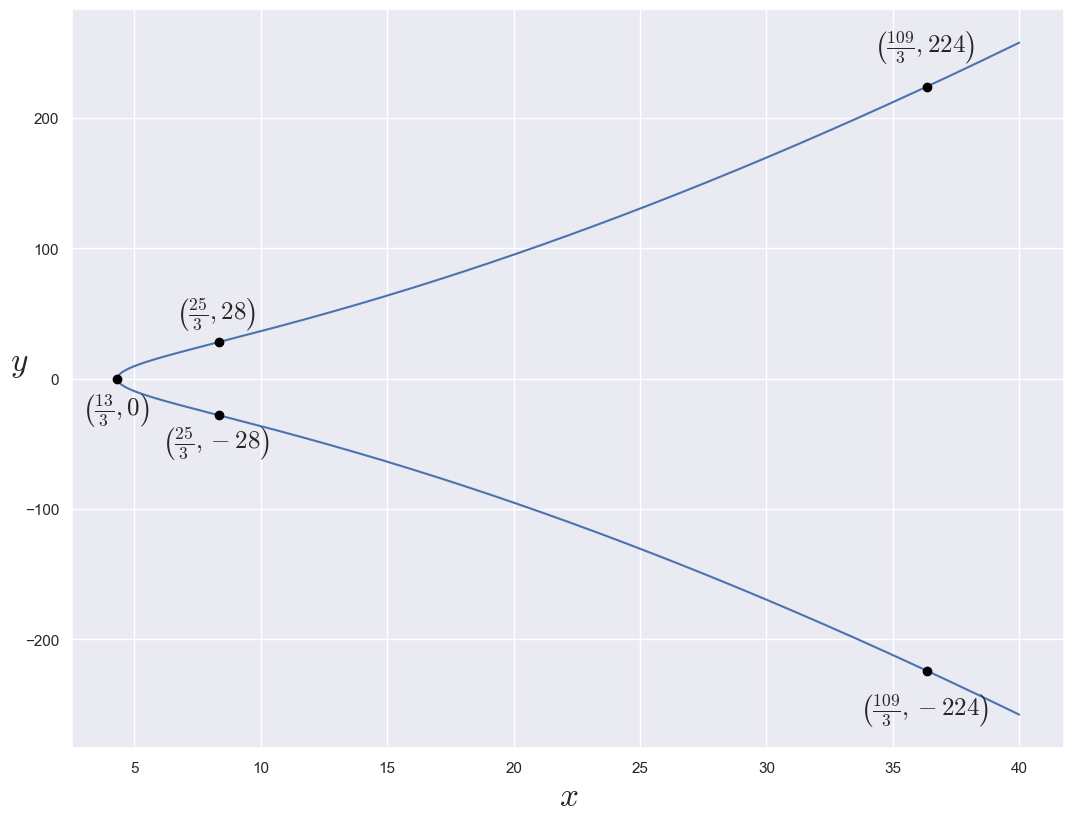
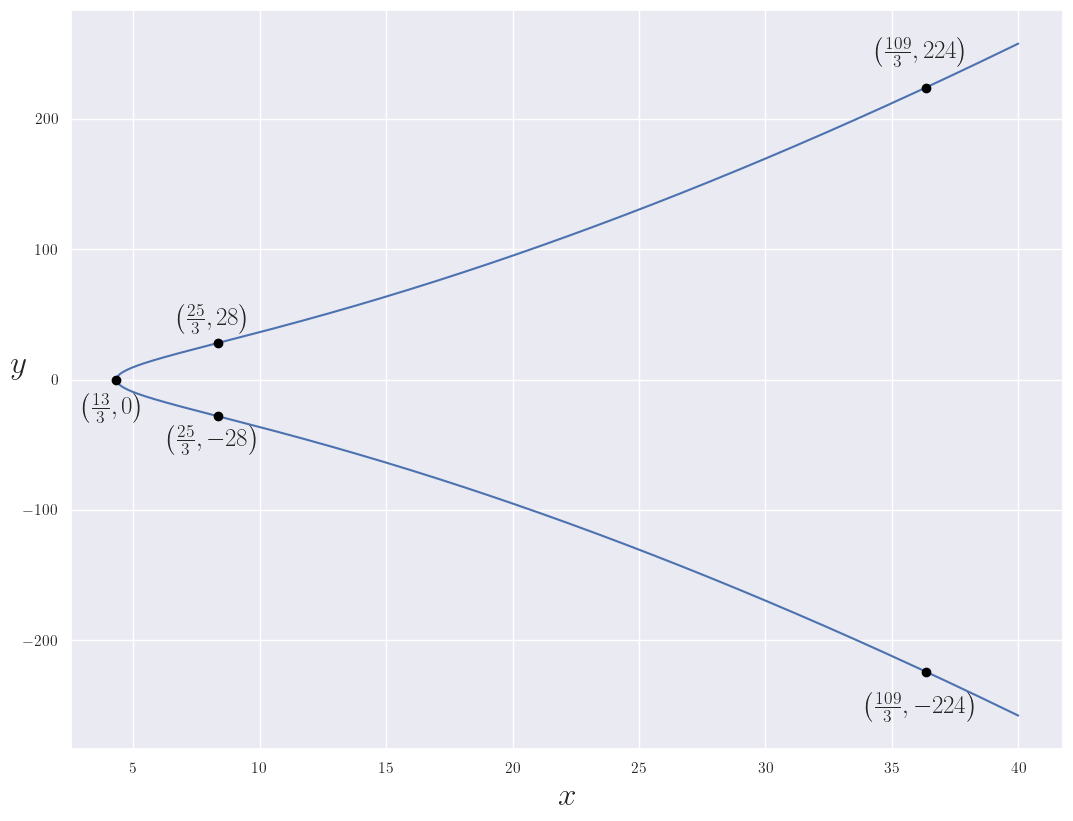
Some final copy-edits to latest "elementary-elliptic" post.

diff --git a/2021/10/elementary-elliptic.html b/2021/10/elementary-elliptic.html
@@ -169,6 +169,7 @@ def get_q_vals(p_vals):
 def main():
     # Python 3.9.1
     seaborn.set()
+    matplotlib.rcParams["text.usetex"] = "true"
     matplotlib.rcParams["mathtext.fontset"] = "cm"
     matplotlib.rcParams["mathtext.rm"] = "serif"
 
@@ -265,7 +266,7 @@ c-6,0,-10,-1,-12,-3s-194,-422,-194,-422s-65,47,-65,47z
 M834 80h400000v40h-400000z"></path></svg></span></span></span><span class=vlist-s></span></span><span class=vlist-r><span class=vlist style=height:0.13278em;><span></span></span></span></span></span></span></span></span><span class=vlist-s></span></span><span class=vlist-r><span class=vlist style=height:0.686em;><span></span></span></span></span></span><span class="mclose nulldelimiter"></span></span></span></span></span></span>
 </blockquote></div>
 
-<p>which can't happen if <span class=katex><span class=katex-mathml><math xmlns="http://www.w3.org/1998/Math/MathML"><semantics><mrow><mi>b</mi><mo separator=true>,</mo><mi>c</mi><mo>∈</mo><mi mathvariant=bold>R</mi></mrow><annotation encoding="application/x-tex">b, c \in \mathbf{R}</annotation></semantics></math></span><span class=katex-html aria-hidden=true><span class=base><span class=strut style=height:0.8888799999999999em;vertical-align:-0.19444em;></span><span class="mord mathnormal">b</span><span class=mpunct>,</span><span class=mspace style=margin-right:0.16666666666666666em;></span><span class="mord mathnormal">c</span><span class=mspace style=margin-right:0.2777777777777778em;></span><span class=mrel>∈</span><span class=mspace style=margin-right:0.2777777777777778em;></span></span><span class=base><span class=strut style=height:0.68611em;vertical-align:0em;></span><span class="mord mathbf">R</span></span></span></span>.
+<p>which can't happen since <span class=katex><span class=katex-mathml><math xmlns="http://www.w3.org/1998/Math/MathML"><semantics><mrow><mi>b</mi><mo separator=true>,</mo><mi>c</mi><mo>∈</mo><mi mathvariant=bold>R</mi></mrow><annotation encoding="application/x-tex">b, c \in \mathbf{R}</annotation></semantics></math></span><span class=katex-html aria-hidden=true><span class=base><span class=strut style=height:0.8888799999999999em;vertical-align:-0.19444em;></span><span class="mord mathnormal">b</span><span class=mpunct>,</span><span class=mspace style=margin-right:0.16666666666666666em;></span><span class="mord mathnormal">c</span><span class=mspace style=margin-right:0.2777777777777778em;></span><span class=mrel>∈</span><span class=mspace style=margin-right:0.2777777777777778em;></span></span><span class=base><span class=strut style=height:0.68611em;vertical-align:0em;></span><span class="mord mathbf">R</span></span></span></span>.
 Using this, we can finally show <span class=katex><span class=katex-mathml><math xmlns="http://www.w3.org/1998/Math/MathML"><semantics><mrow><mi>s</mi><mo mathvariant=normal>≠</mo><mn>0</mn></mrow><annotation encoding="application/x-tex">s \neq 0</annotation></semantics></math></span><span class=katex-html aria-hidden=true><span class=base><span class=strut style=height:0.8888799999999999em;vertical-align:-0.19444em;></span><span class="mord mathnormal">s</span><span class=mspace style=margin-right:0.2777777777777778em;></span><span class=mrel><span class=mrel><span class="mord vbox"><span class=thinbox><span class=rlap><span class=strut style=height:0.8888799999999999em;vertical-align:-0.19444em;></span><span class=inner><span class=mord><span class=mrel></span></span></span><span class=fix></span></span></span></span></span><span class=mrel>=</span></span><span class=mspace style=margin-right:0.2777777777777778em;></span></span><span class=base><span class=strut style=height:0.64444em;vertical-align:0em;></span><span class=mord>0</span></span></span></span>; again
 by way of contradiction, if <span class=katex><span class=katex-mathml><math xmlns="http://www.w3.org/1998/Math/MathML"><semantics><mrow><mi>s</mi><mo>=</mo><mn>0</mn></mrow><annotation encoding="application/x-tex">s = 0</annotation></semantics></math></span><span class=katex-html aria-hidden=true><span class=base><span class=strut style=height:0.43056em;vertical-align:0em;></span><span class="mord mathnormal">s</span><span class=mspace style=margin-right:0.2777777777777778em;></span><span class=mrel>=</span><span class=mspace style=margin-right:0.2777777777777778em;></span></span><span class=base><span class=strut style=height:0.64444em;vertical-align:0em;></span><span class=mord>0</span></span></span></span>:</p>
 <div class=katex-elt><blockquote>
@@ -279,7 +280,7 @@ two free parameters:</p>
 </blockquote></div>
 
 <h3 id=wild-elliptic-curve>A Wild Elliptic Curve Appears</h3>
-<p>Clearing dominators in our equation we can form an equation in
+<p>Clearing denominators in our equation we can form a quadratic in
 <span class=katex><span class=katex-mathml><math xmlns="http://www.w3.org/1998/Math/MathML"><semantics><mrow><mi>q</mi></mrow><annotation encoding="application/x-tex">q</annotation></semantics></math></span><span class=katex-html aria-hidden=true><span class=base><span class=strut style=height:0.625em;vertical-align:-0.19444em;></span><span class="mord mathnormal" style=margin-right:0.03588em;>q</span></span></span></span>:</p>
 <div class=katex-elt><blockquote>
 <span class=katex-display><span class=katex><span class=katex-mathml><math xmlns="http://www.w3.org/1998/Math/MathML" display=block><semantics><mrow><mo stretchy=false>(</mo><mn>3</mn><mo>−</mo><mn>4</mn><mi>p</mi><mo stretchy=false>)</mo><msup><mi>q</mi><mn>2</mn></msup><mo>−</mo><mo stretchy=false>(</mo><mn>1</mn><mo>−</mo><mi>p</mi><mo stretchy=false>)</mo><mo stretchy=false>(</mo><mn>3</mn><mo>−</mo><mn>4</mn><mi>p</mi><mo stretchy=false>)</mo><mi>q</mi><mo>+</mo><mrow><mo fence=true>(</mo><mn>3</mn><msup><mi>p</mi><mn>2</mn></msup><mo>−</mo><mn>3</mn><mi>p</mi><mo>+</mo><mn>1</mn><mo fence=true>)</mo></mrow><mo>=</mo><mn>0</mn></mrow><annotation encoding="application/x-tex">(3 - 4p) q^2 - (1 - p)(3 - 4p) q + \left(3 p^2 - 3p + 1\right) = 0</annotation></semantics></math></span><span class=katex-html aria-hidden=true><span class=base><span class=strut style=height:1em;vertical-align:-0.25em;></span><span class=mopen>(</span><span class=mord>3</span><span class=mspace style=margin-right:0.2222222222222222em;></span><span class=mbin>−</span><span class=mspace style=margin-right:0.2222222222222222em;></span></span><span class=base><span class=strut style=height:1.1141079999999999em;vertical-align:-0.25em;></span><span class=mord>4</span><span class="mord mathnormal">p</span><span class=mclose>)</span><span class=mord><span class="mord mathnormal" style=margin-right:0.03588em;>q</span><span class=msupsub><span class=vlist-t><span class=vlist-r><span class=vlist style=height:0.8641079999999999em;><span style=top:-3.113em;margin-right:0.05em;><span class=pstrut style=height:2.7em;></span><span class="sizing reset-size6 size3 mtight"><span class="mord mtight">2</span></span></span></span></span></span></span></span><span class=mspace style=margin-right:0.2222222222222222em;></span><span class=mbin>−</span><span class=mspace style=margin-right:0.2222222222222222em;></span></span><span class=base><span class=strut style=height:1em;vertical-align:-0.25em;></span><span class=mopen>(</span><span class=mord>1</span><span class=mspace style=margin-right:0.2222222222222222em;></span><span class=mbin>−</span><span class=mspace style=margin-right:0.2222222222222222em;></span></span><span class=base><span class=strut style=height:1em;vertical-align:-0.25em;></span><span class="mord mathnormal">p</span><span class=mclose>)</span><span class=mopen>(</span><span class=mord>3</span><span class=mspace style=margin-right:0.2222222222222222em;></span><span class=mbin>−</span><span class=mspace style=margin-right:0.2222222222222222em;></span></span><span class=base><span class=strut style=height:1em;vertical-align:-0.25em;></span><span class=mord>4</span><span class="mord mathnormal">p</span><span class=mclose>)</span><span class="mord mathnormal" style=margin-right:0.03588em;>q</span><span class=mspace style=margin-right:0.2222222222222222em;></span><span class=mbin>+</span><span class=mspace style=margin-right:0.2222222222222222em;></span></span><span class=base><span class=strut style=height:1.2141179999999998em;vertical-align:-0.35001em;></span><span class=minner><span class="mopen delimcenter" style=top:0em;><span class="delimsizing size1">(</span></span><span class=mord>3</span><span class=mord><span class="mord mathnormal">p</span><span class=msupsub><span class=vlist-t><span class=vlist-r><span class=vlist style=height:0.8641079999999999em;><span style=top:-3.113em;margin-right:0.05em;><span class=pstrut style=height:2.7em;></span><span class="sizing reset-size6 size3 mtight"><span class="mord mtight">2</span></span></span></span></span></span></span></span><span class=mspace style=margin-right:0.2222222222222222em;></span><span class=mbin>−</span><span class=mspace style=margin-right:0.2222222222222222em;></span><span class=mord>3</span><span class="mord mathnormal">p</span><span class=mspace style=margin-right:0.2222222222222222em;></span><span class=mbin>+</span><span class=mspace style=margin-right:0.2222222222222222em;></span><span class=mord>1</span><span class="mclose delimcenter" style=top:0em;><span class="delimsizing size1">)</span></span></span><span class=mspace style=margin-right:0.2777777777777778em;></span><span class=mrel>=</span><span class=mspace style=margin-right:0.2777777777777778em;></span></span><span class=base><span class=strut style=height:0.64444em;vertical-align:0em;></span><span class=mord>0</span></span></span></span></span>
@@ -307,7 +308,7 @@ M834 80h400000v40h-400000z"></path></svg></span></span></span><span class=vlist-
 <span class=katex-display><span class=katex><span class=katex-mathml><math xmlns="http://www.w3.org/1998/Math/MathML" display=block><semantics><mrow><msup><mi>d</mi><mn>2</mn></msup><mo>=</mo><mi mathvariant=normal>Δ</mi><mo>=</mo><mrow><mo fence=true>(</mo><mi>p</mi><mo>+</mo><mn>1</mn><mo fence=true>)</mo></mrow><mrow><mo fence=true>(</mo><mn>4</mn><mi>p</mi><mo>−</mo><mn>3</mn><mo fence=true>)</mo></mrow><mrow><mo fence=true>(</mo><mn>4</mn><msup><mi>p</mi><mn>2</mn></msup><mo>−</mo><mn>3</mn><mi>p</mi><mo>+</mo><mn>1</mn><mo fence=true>)</mo></mrow><mi mathvariant=normal>.</mi></mrow><annotation encoding="application/x-tex">d^2 = \Delta = \left(p + 1\right) \left(4p - 3\right) \left(4 p^2 - 3p + 1\right).</annotation></semantics></math></span><span class=katex-html aria-hidden=true><span class=base><span class=strut style=height:0.8641079999999999em;vertical-align:0em;></span><span class=mord><span class="mord mathnormal">d</span><span class=msupsub><span class=vlist-t><span class=vlist-r><span class=vlist style=height:0.8641079999999999em;><span style=top:-3.113em;margin-right:0.05em;><span class=pstrut style=height:2.7em;></span><span class="sizing reset-size6 size3 mtight"><span class="mord mtight">2</span></span></span></span></span></span></span></span><span class=mspace style=margin-right:0.2777777777777778em;></span><span class=mrel>=</span><span class=mspace style=margin-right:0.2777777777777778em;></span></span><span class=base><span class=strut style=height:0.68333em;vertical-align:0em;></span><span class=mord>Δ</span><span class=mspace style=margin-right:0.2777777777777778em;></span><span class=mrel>=</span><span class=mspace style=margin-right:0.2777777777777778em;></span></span><span class=base><span class=strut style=height:1.2141179999999998em;vertical-align:-0.35001em;></span><span class=minner><span class="mopen delimcenter" style=top:0em;>(</span><span class="mord mathnormal">p</span><span class=mspace style=margin-right:0.2222222222222222em;></span><span class=mbin>+</span><span class=mspace style=margin-right:0.2222222222222222em;></span><span class=mord>1</span><span class="mclose delimcenter" style=top:0em;>)</span></span><span class=mspace style=margin-right:0.16666666666666666em;></span><span class=minner><span class="mopen delimcenter" style=top:0em;>(</span><span class=mord>4</span><span class="mord mathnormal">p</span><span class=mspace style=margin-right:0.2222222222222222em;></span><span class=mbin>−</span><span class=mspace style=margin-right:0.2222222222222222em;></span><span class=mord>3</span><span class="mclose delimcenter" style=top:0em;>)</span></span><span class=mspace style=margin-right:0.16666666666666666em;></span><span class=minner><span class="mopen delimcenter" style=top:0em;><span class="delimsizing size1">(</span></span><span class=mord>4</span><span class=mord><span class="mord mathnormal">p</span><span class=msupsub><span class=vlist-t><span class=vlist-r><span class=vlist style=height:0.8641079999999999em;><span style=top:-3.113em;margin-right:0.05em;><span class=pstrut style=height:2.7em;></span><span class="sizing reset-size6 size3 mtight"><span class="mord mtight">2</span></span></span></span></span></span></span></span><span class=mspace style=margin-right:0.2222222222222222em;></span><span class=mbin>−</span><span class=mspace style=margin-right:0.2222222222222222em;></span><span class=mord>3</span><span class="mord mathnormal">p</span><span class=mspace style=margin-right:0.2222222222222222em;></span><span class=mbin>+</span><span class=mspace style=margin-right:0.2222222222222222em;></span><span class=mord>1</span><span class="mclose delimcenter" style=top:0em;><span class="delimsizing size1">)</span></span></span><span class=mspace style=margin-right:0.16666666666666666em;></span><span class=mord>.</span></span></span></span></span>
 </blockquote></div>
 
-<p>Thanks to a helpful <a href="https://mathoverflow.net/a/239752">tip</a> to use a <a href="https://en.wikipedia.org/wiki/M%C3%B6bius_transformation">Möbius transformation</a>, we can
+<p>Thanks to a helpful <a href="https://mathoverflow.net/a/239752/40609">tip</a> to use a <a href="https://en.wikipedia.org/wiki/M%C3%B6bius_transformation">Möbius transformation</a>, we can
 transform via</p>
 <div class=katex-elt><blockquote>
 <span class=katex-display><span class=katex><span class=katex-mathml><math xmlns="http://www.w3.org/1998/Math/MathML" display=block><semantics><mrow><mi>d</mi><mo>=</mo><mfrac><mrow><mn>63</mn><mi>y</mi></mrow><mrow><mo stretchy=false>(</mo><mn>3</mn><mi>x</mi><mo>−</mo><mn>25</mn><msup><mo stretchy=false>)</mo><mn>2</mn></msup></mrow></mfrac><mo separator=true>,</mo><mi>p</mi><mo>=</mo><mfrac><mrow><mn>9</mn><mo stretchy=false>(</mo><mi>x</mi><mo>+</mo><mn>1</mn><mo stretchy=false>)</mo></mrow><mrow><mn>4</mn><mo stretchy=false>(</mo><mn>3</mn><mi>x</mi><mo>−</mo><mn>25</mn><mo stretchy=false>)</mo></mrow></mfrac></mrow><annotation encoding="application/x-tex">d = \frac{63y}{(3x - 25)^2}, p = \frac{9(x + 1)}{4(3x - 25)}</annotation></semantics></math></span><span class=katex-html aria-hidden=true><span class=base><span class=strut style=height:0.69444em;vertical-align:0em;></span><span class="mord mathnormal">d</span><span class=mspace style=margin-right:0.2777777777777778em;></span><span class=mrel>=</span><span class=mspace style=margin-right:0.2777777777777778em;></span></span><span class=base><span class=strut style=height:2.25744em;vertical-align:-0.936em;></span><span class=mord><span class="mopen nulldelimiter"></span><span class=mfrac><span class="vlist-t vlist-t2"><span class=vlist-r><span class=vlist style=height:1.32144em;><span style=top:-2.314em;><span class=pstrut style=height:3em;></span><span class=mord><span class=mopen>(</span><span class=mord>3</span><span class="mord mathnormal">x</span><span class=mspace style=margin-right:0.2222222222222222em;></span><span class=mbin>−</span><span class=mspace style=margin-right:0.2222222222222222em;></span><span class=mord>25</span><span class=mclose><span class=mclose>)</span><span class=msupsub><span class=vlist-t><span class=vlist-r><span class=vlist style=height:0.740108em;><span style=top:-2.9890000000000003em;margin-right:0.05em;><span class=pstrut style=height:2.7em;></span><span class="sizing reset-size6 size3 mtight"><span class="mord mtight">2</span></span></span></span></span></span></span></span></span></span><span style=top:-3.23em;><span class=pstrut style=height:3em;></span><span class=frac-line style=border-bottom-width:0.04em;></span></span><span style=top:-3.677em;><span class=pstrut style=height:3em;></span><span class=mord><span class=mord>63</span><span class="mord mathnormal" style=margin-right:0.03588em;>y</span></span></span></span><span class=vlist-s></span></span><span class=vlist-r><span class=vlist style=height:0.936em;><span></span></span></span></span></span><span class="mclose nulldelimiter"></span></span><span class=mpunct>,</span><span class=mspace style=margin-right:0.16666666666666666em;></span><span class="mord mathnormal">p</span><span class=mspace style=margin-right:0.2777777777777778em;></span><span class=mrel>=</span><span class=mspace style=margin-right:0.2777777777777778em;></span></span><span class=base><span class=strut style=height:2.363em;vertical-align:-0.936em;></span><span class=mord><span class="mopen nulldelimiter"></span><span class=mfrac><span class="vlist-t vlist-t2"><span class=vlist-r><span class=vlist style=height:1.427em;><span style=top:-2.314em;><span class=pstrut style=height:3em;></span><span class=mord><span class=mord>4</span><span class=mopen>(</span><span class=mord>3</span><span class="mord mathnormal">x</span><span class=mspace style=margin-right:0.2222222222222222em;></span><span class=mbin>−</span><span class=mspace style=margin-right:0.2222222222222222em;></span><span class=mord>25</span><span class=mclose>)</span></span></span><span style=top:-3.23em;><span class=pstrut style=height:3em;></span><span class=frac-line style=border-bottom-width:0.04em;></span></span><span style=top:-3.677em;><span class=pstrut style=height:3em;></span><span class=mord><span class=mord>9</span><span class=mopen>(</span><span class="mord mathnormal">x</span><span class=mspace style=margin-right:0.2222222222222222em;></span><span class=mbin>+</span><span class=mspace style=margin-right:0.2222222222222222em;></span><span class=mord>1</span><span class=mclose>)</span></span></span></span><span class=vlist-s></span></span><span class=vlist-r><span class=vlist style=height:0.936em;><span></span></span></span></span></span><span class="mclose nulldelimiter"></span></span></span></span></span></span>
@@ -341,6 +342,7 @@ def get_y_vals(x_vals):
 def main():
     # Python 3.9.1
     seaborn.set()
+    matplotlib.rcParams["text.usetex"] = "true"
     matplotlib.rcParams["mathtext.fontset"] = "cm"
     matplotlib.rcParams["mathtext.rm"] = "serif"
 
